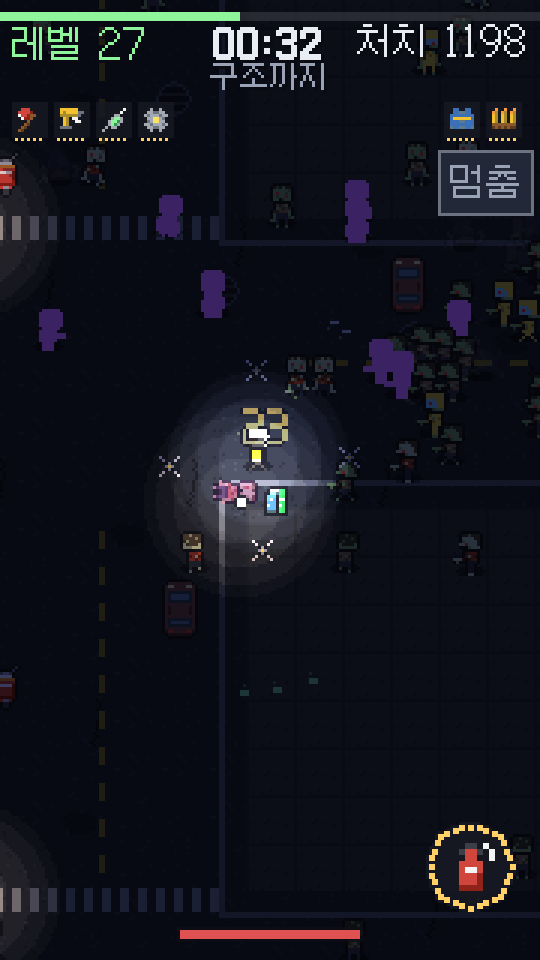
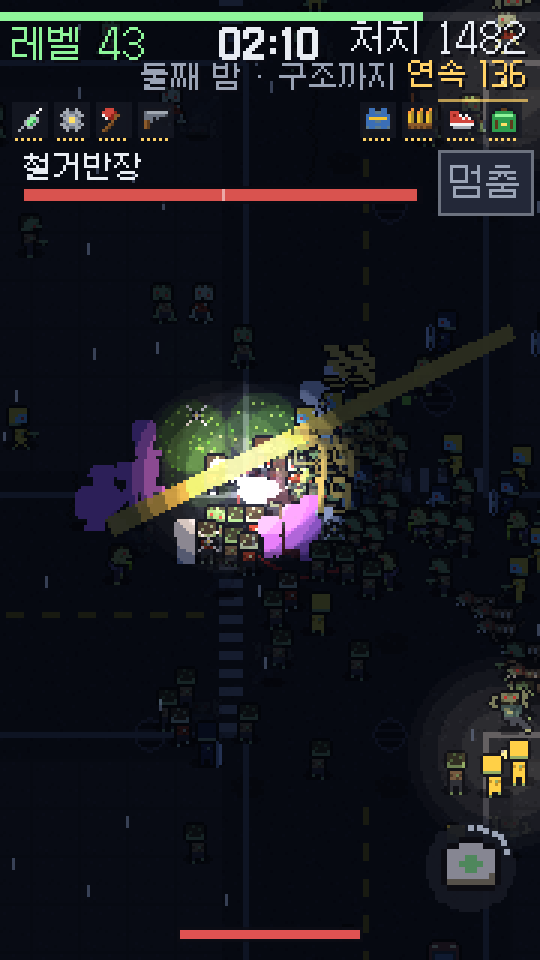
링크 미리보기: 둘째 밤 보스전 그림·'밤마다 3분, 헬기를 잡아라' 문구

diff --git a/web/README.md b/web/README.md
@@ -3,7 +3,7 @@
 
 | 파일 | 무엇 | 쓰는 곳 | 출처 |
 |---|---|---|---|
-| `og.png` | 링크 미리보기 그림 (카톡·메신저에 링크를 보내면 뜨는 그림), 540×960 | `export_presets.cfg` 의 `og:image` | 자동 플레이 화면 캡처(소방관, 4:28) 를 3배로 키움 — 직접 만든 게임 화면 |
+| `og.png` | 링크 미리보기 그림 (카톡·메신저에 링크를 보내면 뜨는 그림), 540×960 | `export_presets.cfg` 의 `og:image` | 자동 플레이 화면 캡처(간호사, 둘째 밤 철거반장 보스전) 를 3배로 키움 — 직접 만든 게임 화면 |
 | `sound_unlock.js` | 폰 브라우저 소리 켜기 — 아이폰 무음 모드에서도 소리, 손 뗄 때 소리 장치 다시 켜기, 다른 앱 갔다 오면 멈췄다 다시 켜기 | `export_presets.cfg` 의 head_include 가 Godot 보다 먼저 불러옴 | 직접 작성 |
 | `kakao_open.js` | 카톡 링크로 열면(카톡 안 브라우저는 소리가 안 남) 폰의 기본 브라우저로 다시 열기. 카톡 안에서는 게임을 받지 않고 안내 + '브라우저로 열기'·'여기서 소리 없이 하기' 버튼 | `export_presets.cfg` head_include, `shell.html` 이 시작 전에 물어봄 | 직접 작성 |
 | `shell.html` | 웹 첫 화면 틀 — Godot 기본 틀에 한국어 lang·카톡 확인만 더함 (그대로 복사하지 않고 Godot 가 index.html 로 채워 냄) | `export_presets.cfg` 의 custom_html_shell | Godot 4.7.2 godot.html (MIT) 고침 |
